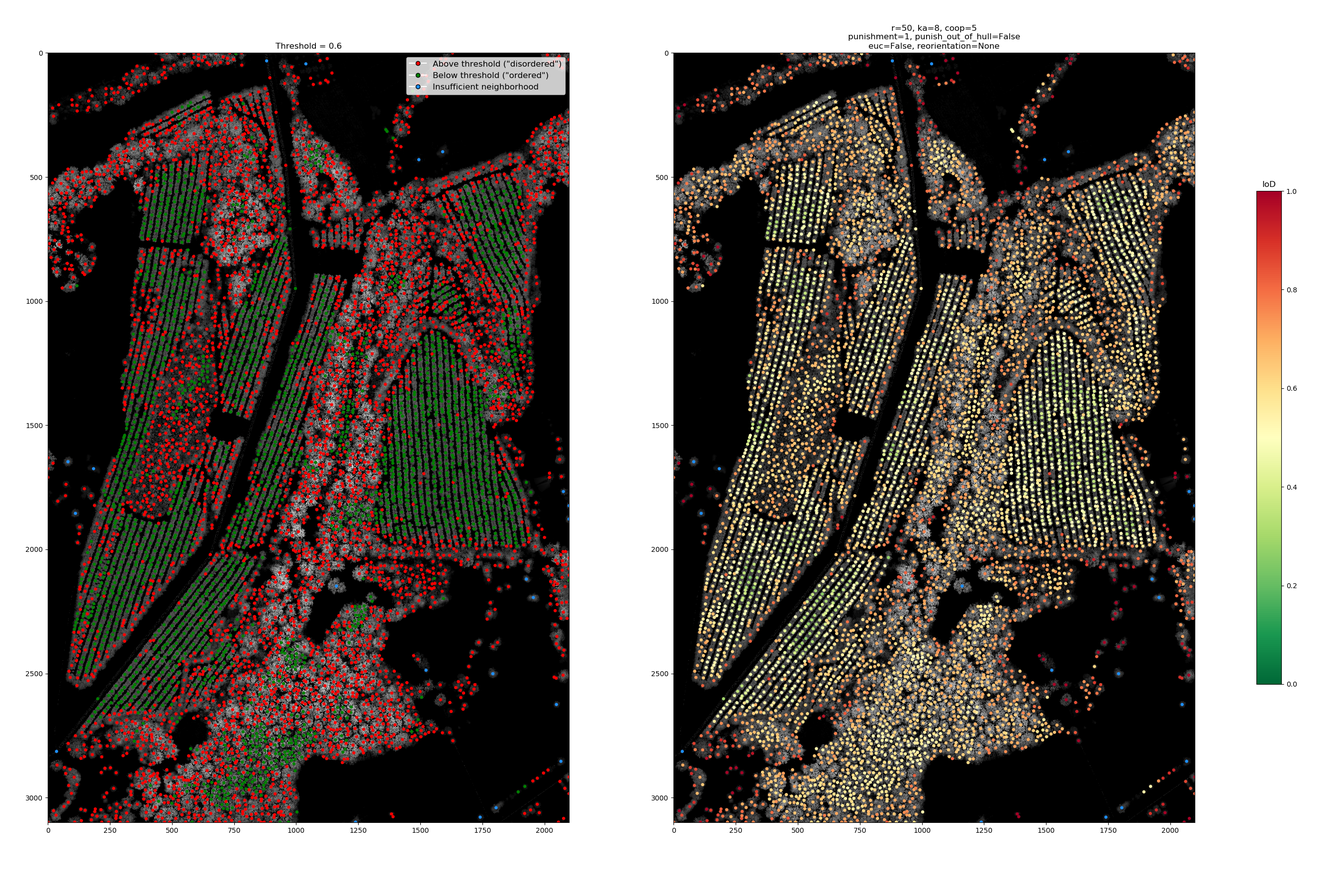
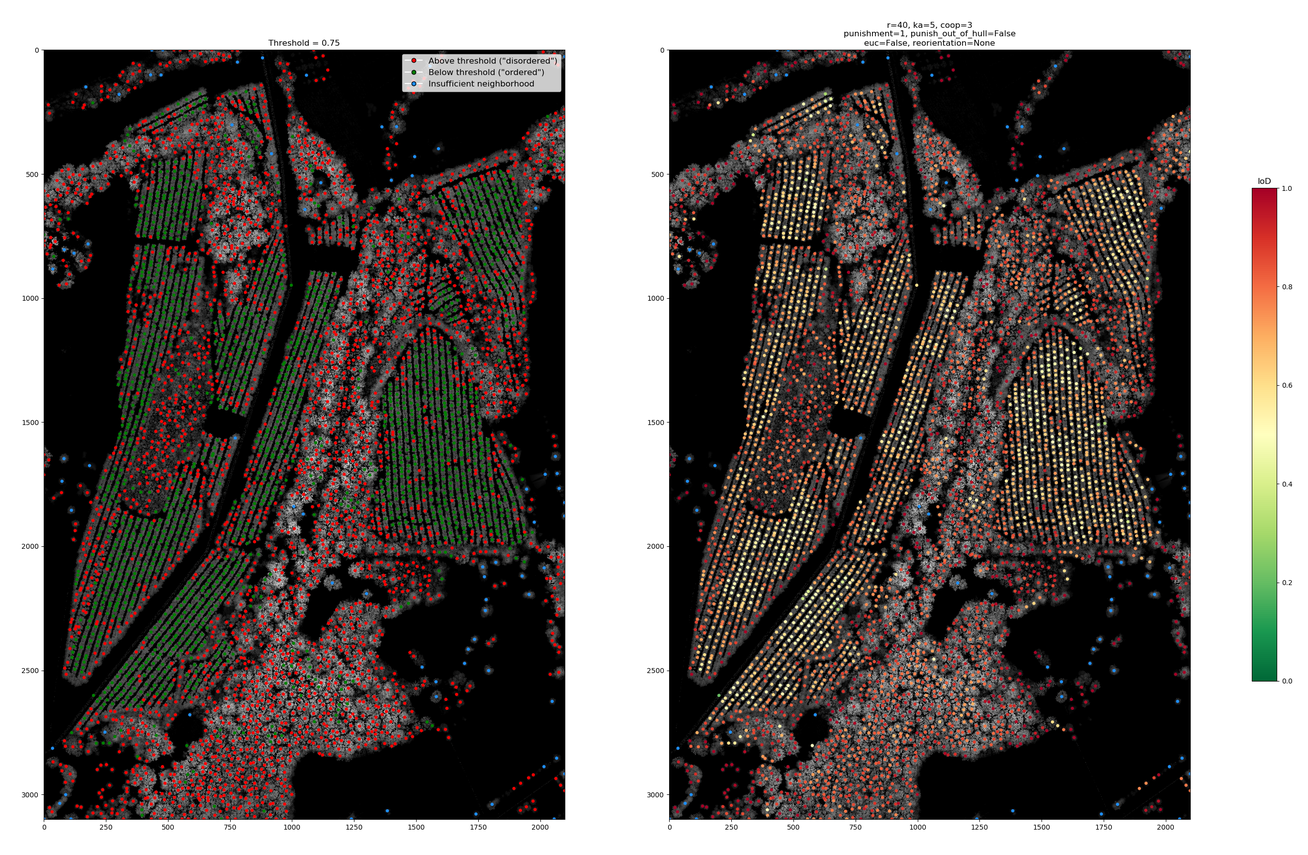
no message

diff --git a/master.py b/master.py
@@ -32,8 +32,8 @@ sensitivity = False
 
 if use_dhm:
     if trees_1:
-        outname = r'C:\Users\rj3h\Documents\programming_projects\point-disorder\point_disorder_paper\figures\trees_1.png'
-        #outname = r'C:\Users\rsjon_000\Documents\point-disorder\point_disorder_paper\figures\trees_1.png'
+        #outname = r'C:\Users\rj3h\Documents\programming_projects\point-disorder\point_disorder_paper\figures\trees_1.png'
+        outname = r'C:\Users\rsjon_000\Documents\point-disorder\point_disorder_paper\figures\trees_1.png'
         im_xlim = (1500, 5000)
         im_ylim = (0, 3000)
         im_path = r'F:\entropy_veg\lidar\las_products\USGS_LPC_TN_27County_blk2_2015_2276581SE_LAS_2017\USGS_LPC_TN_27County_blk2_2015_2276581SE_LAS_2017_dhm.tif'
@@ -86,8 +86,8 @@ if use_dhm:
 
     elif trees_2:
 
-        outname = r'C:\Users\rj3h\Documents\programming_projects\point-disorder\point_disorder_paper\figures\trees_2.png'
-        # outname = r'C:\Users\rsjon_000\Documents\point-disorder\point_disorder_paper\figures\trees_2.png'
+        #outname = r'C:\Users\rj3h\Documents\programming_projects\point-disorder\point_disorder_paper\figures\trees_2.png'
+        outname = r'C:\Users\rsjon_000\Documents\point-disorder\point_disorder_paper\figures\trees_2.png'
         im_xlim = (0, 3200)
         im_ylim = (4250, 7000)
         im_path = r'F:\entropy_veg\lidar\las_products\USGS_LPC_TN_27County_blk2_2015_2276581SE_LAS_2017\USGS_LPC_TN_27County_blk2_2015_2276581SE_LAS_2017_dhm.tif'
@@ -110,28 +110,37 @@ if use_dhm:
         thresh = 0.5
 
     elif trees_3:
-        outname = r'C:\Users\rj3h\Documents\programming_projects\point-disorder\point_disorder_paper\figures\trees_3.png'
-        #outname = r'C:\Users\rsjon_000\Documents\point-disorder\point_disorder_paper\figures\trees_3.png'
+        #outname = r'C:\Users\rj3h\Documents\programming_projects\point-disorder\point_disorder_paper\figures\trees_3.png'
+        outname = r'C:\Users\rsjon_000\Documents\point-disorder\point_disorder_paper\figures\trees_3.png'
         im_xlim = (2200, 5300)
         im_ylim = (1800, 3900)
         im_path = r'F:\entropy_veg\lidar\atwell\las_products\dhm.tif'
 
-        neighbor_search_dist = 50
-        ka = 8
-        coop = 5
+        neighbor_search_dist = 40
+        ka = 5
+        coop = 3
         punishment = 1
         punish_out_of_hull = False
         euc = False
         reorientation = None
+
+        """
         max_sigma = 20
-        min_sigma = 5
+        min_sigma = 7
+        num_sigma = 10
+        threshold = 5 # min tree height
+        overlap = 0.4
+        thresh = 0.7 # disorder cutoff
+        """
+        max_sigma = 20
+        min_sigma = 7
         num_sigma = 10
         threshold = 5
-        overlap = 0.5
+        overlap = 0.6
+        thresh = 0.75
 
         plot_planted = False
 
-        thresh = 0.7
     else:
         raise Exception('No parameters')
 else:
